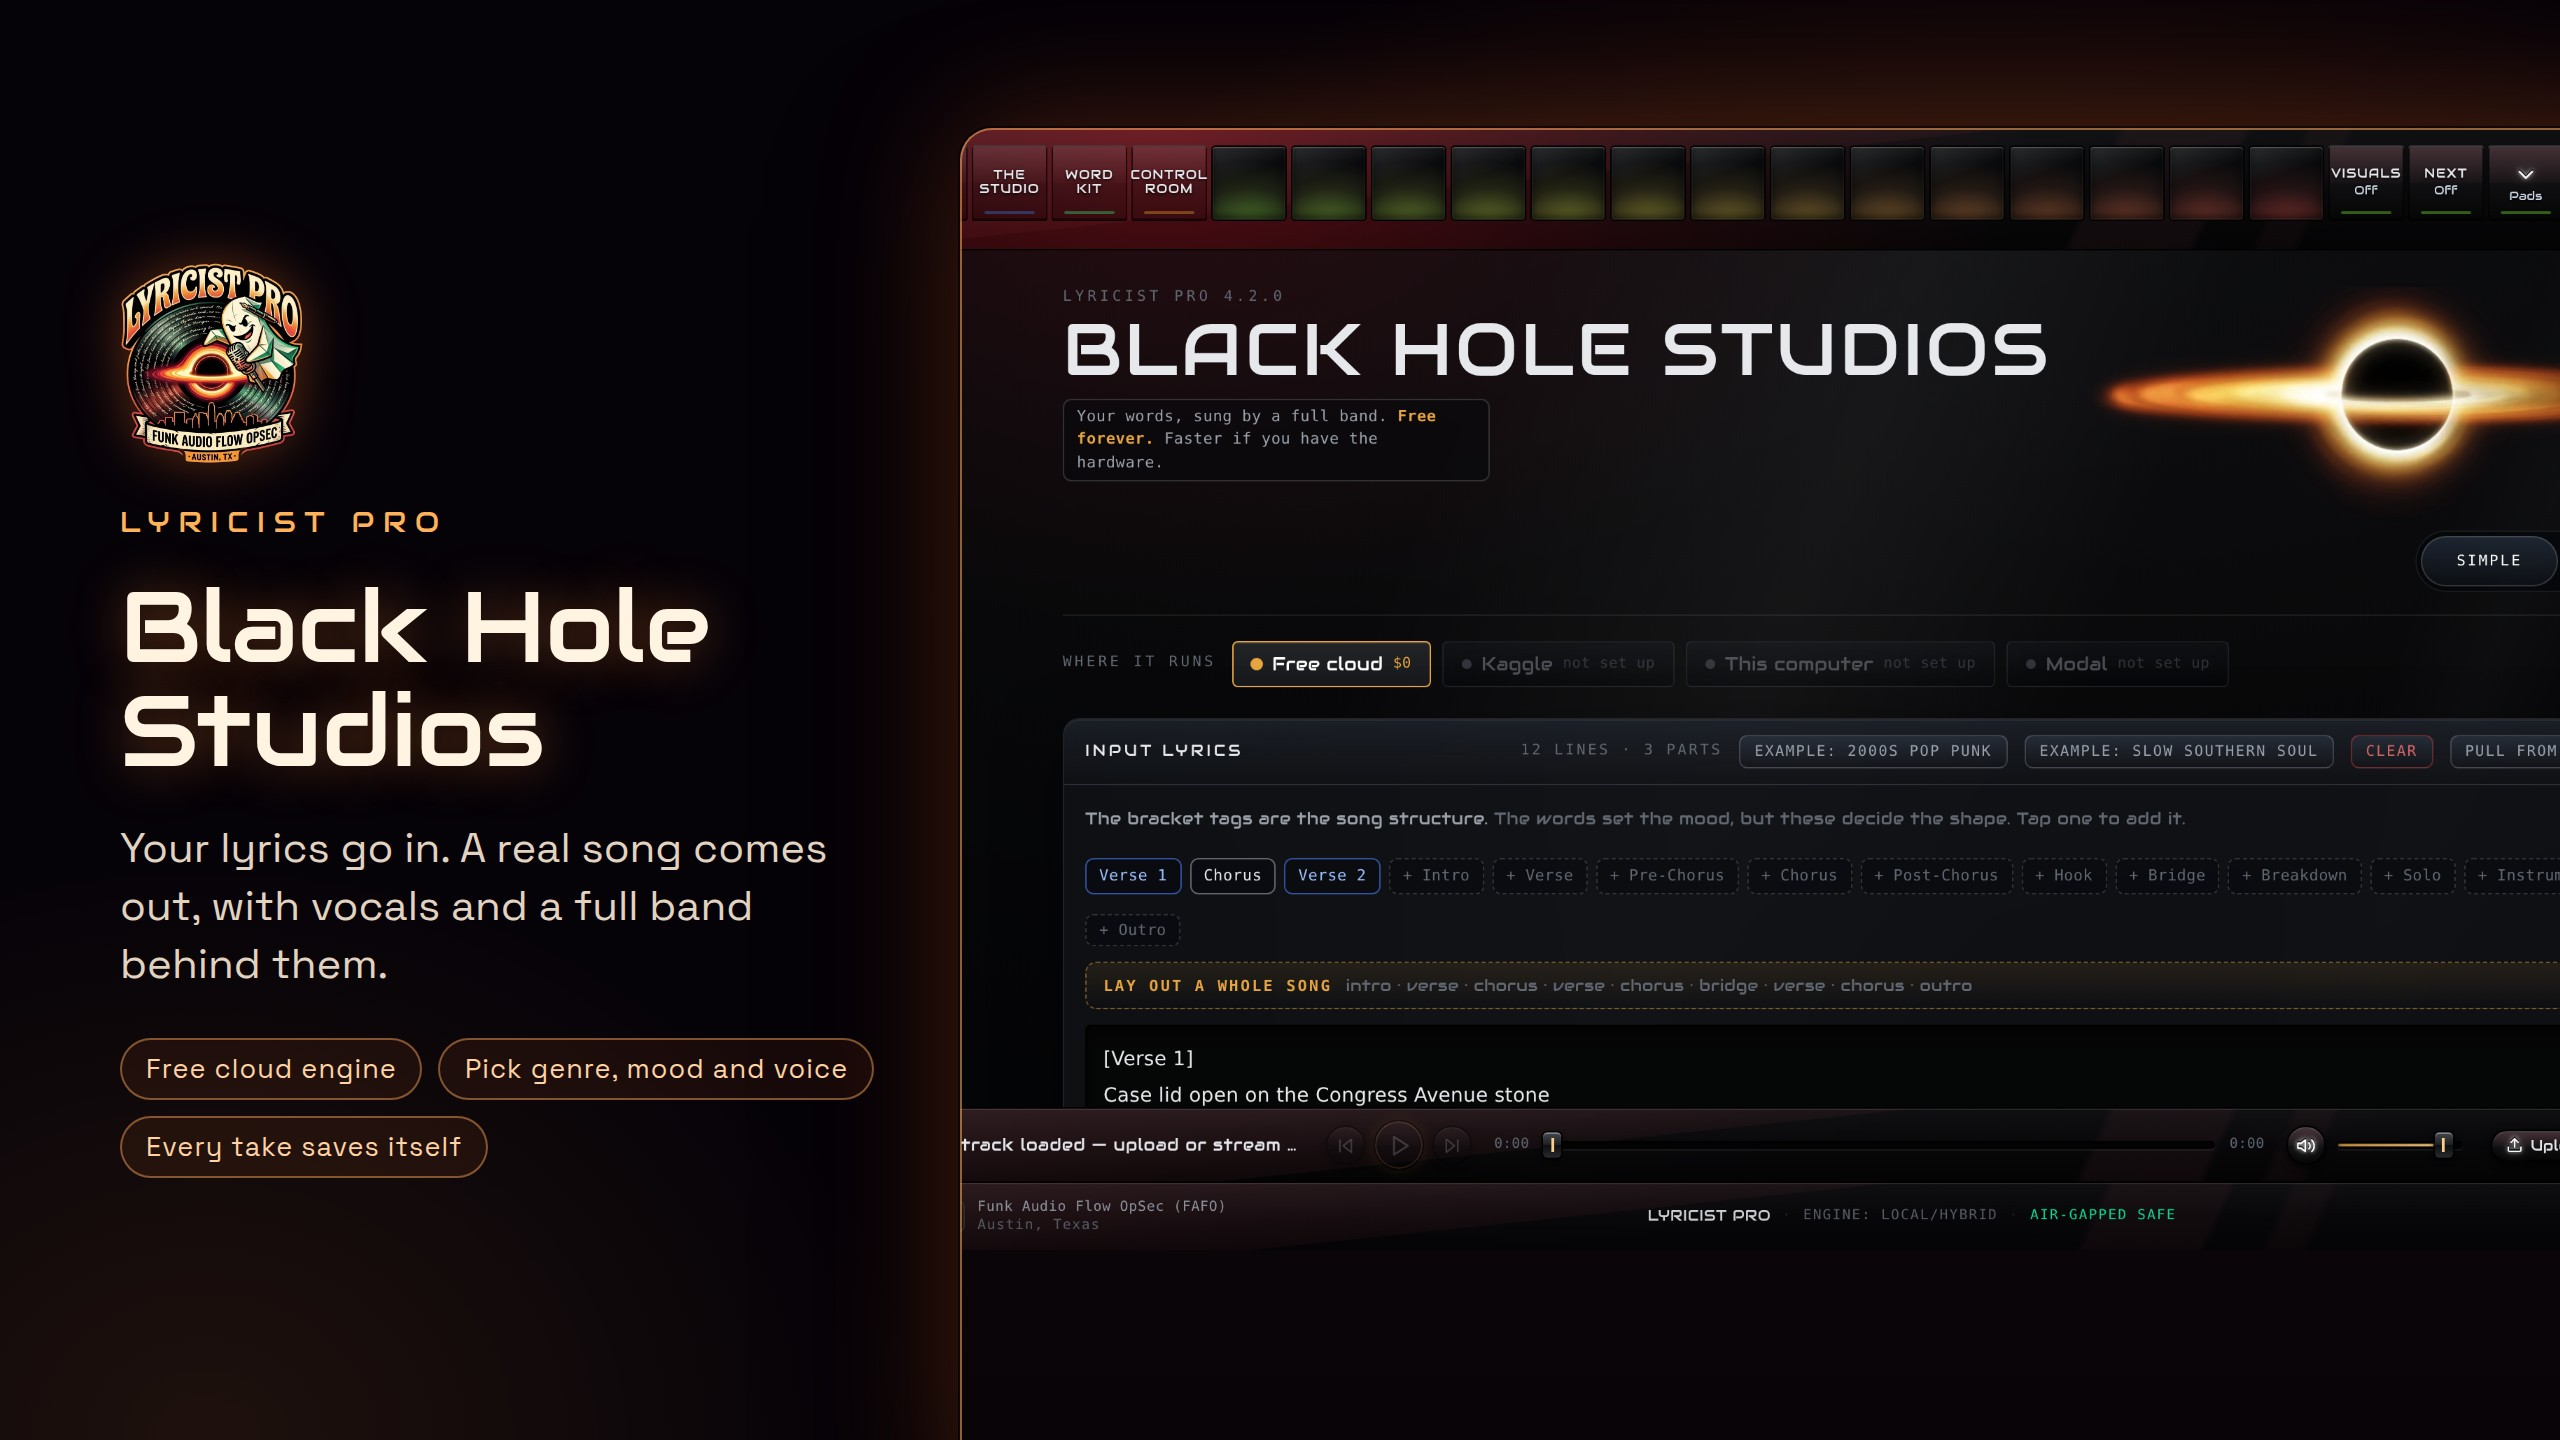
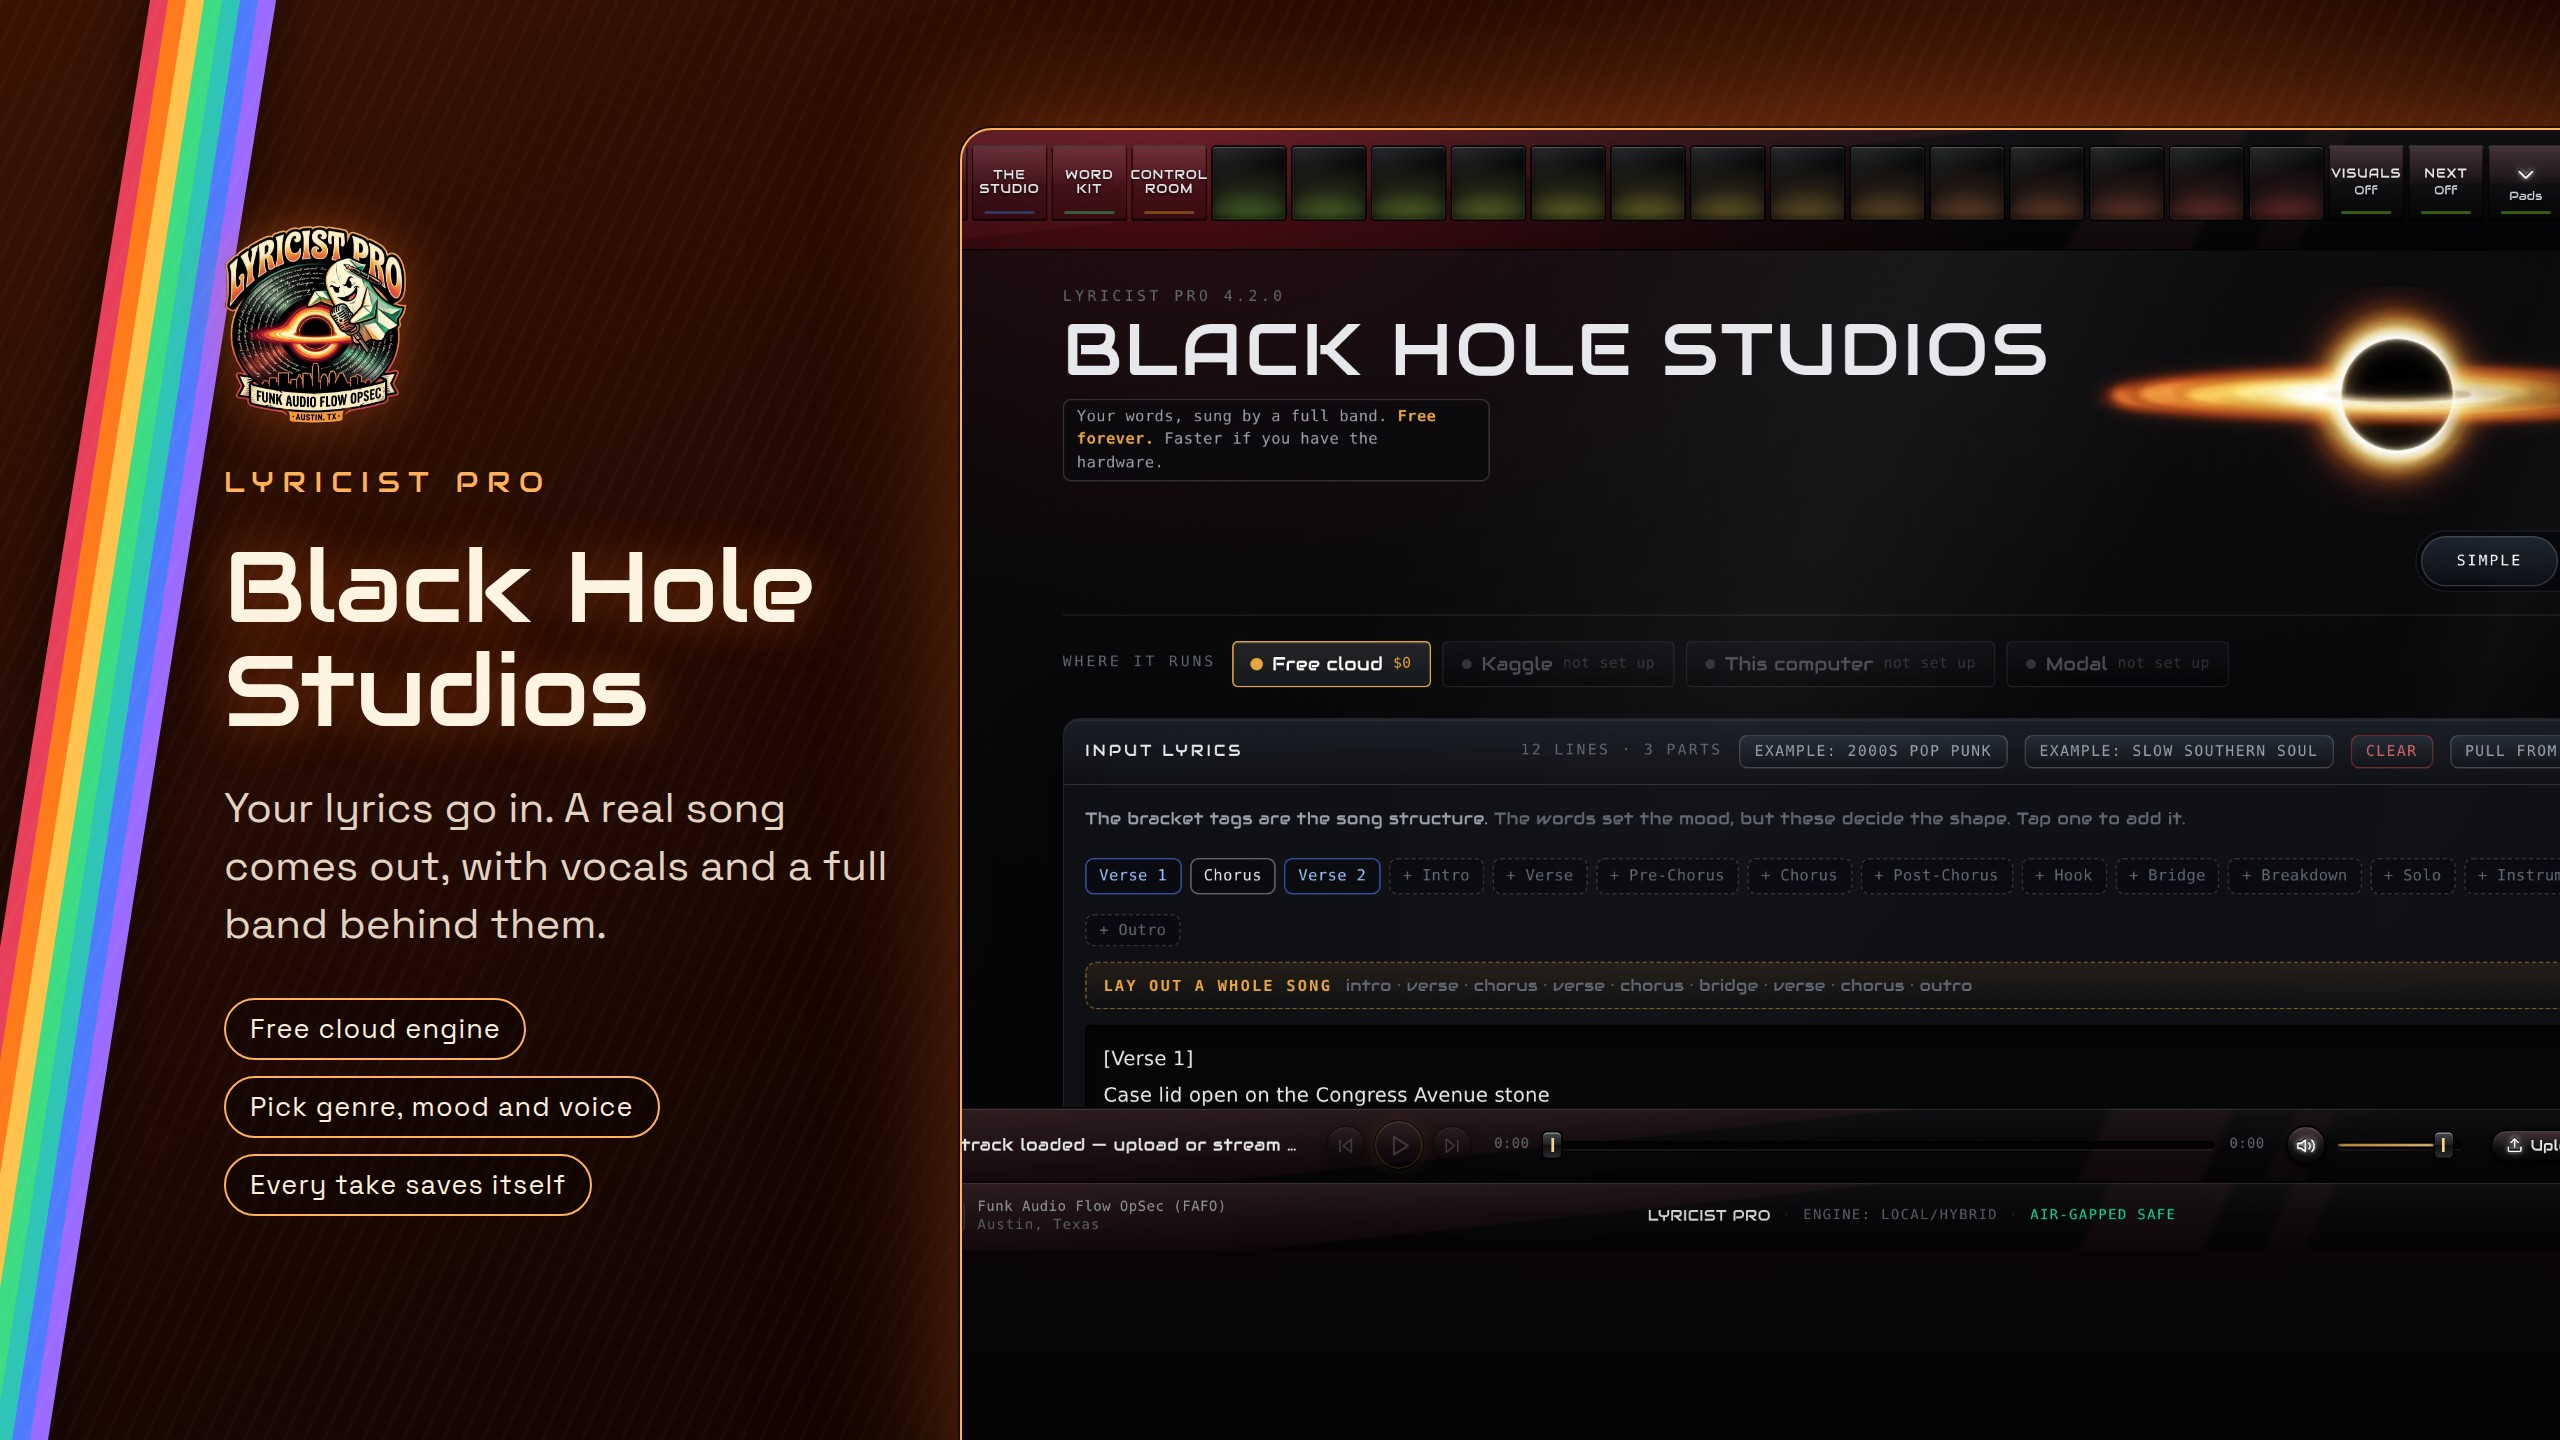
Gumroad covers: a color per card, a seven-color slice strip, a slices card
Chris: change the background colors, no white, show slices of all the
colors. Each feature card has its own deep color (ember, teal, violet,
crimson, green, indigo, sunset) and a slanted strip of all seven down the
left edge. New cover 08 cuts one card into seven tinted slices, one per
tool; the 18-tool grid moves to 09.

Claude-Session: https://claude.ai/code/session_01JexraKjPLM1AbEQFknkg7i

diff --git a/gumroad/README.md b/gumroad/README.md
@@ -26,7 +26,7 @@ Gumroad → **Products** → **New product** → **Digital product**.
 | Field | Paste this |
 |---|---|
 | Description | all of `description.html` (see the top of this file) |
-| Cover | upload in this order: `covers/01-skyline-cover-video.mov` (the moving skyline), then `covers/01-hero.jpg` through `covers/08-everything.jpg` |
+| Cover | upload in this order: `covers/01-skyline-cover-video.mov` (the moving skyline), then `covers/01-hero.jpg` through `covers/09-everything.jpg` |
 | Thumbnail | `thumbnail-600.png` |
 | Call to action | `I want this!` |
 | Summary | `18 songwriting tools in one Windows app, from the first line to the finished, mastered song.` |
